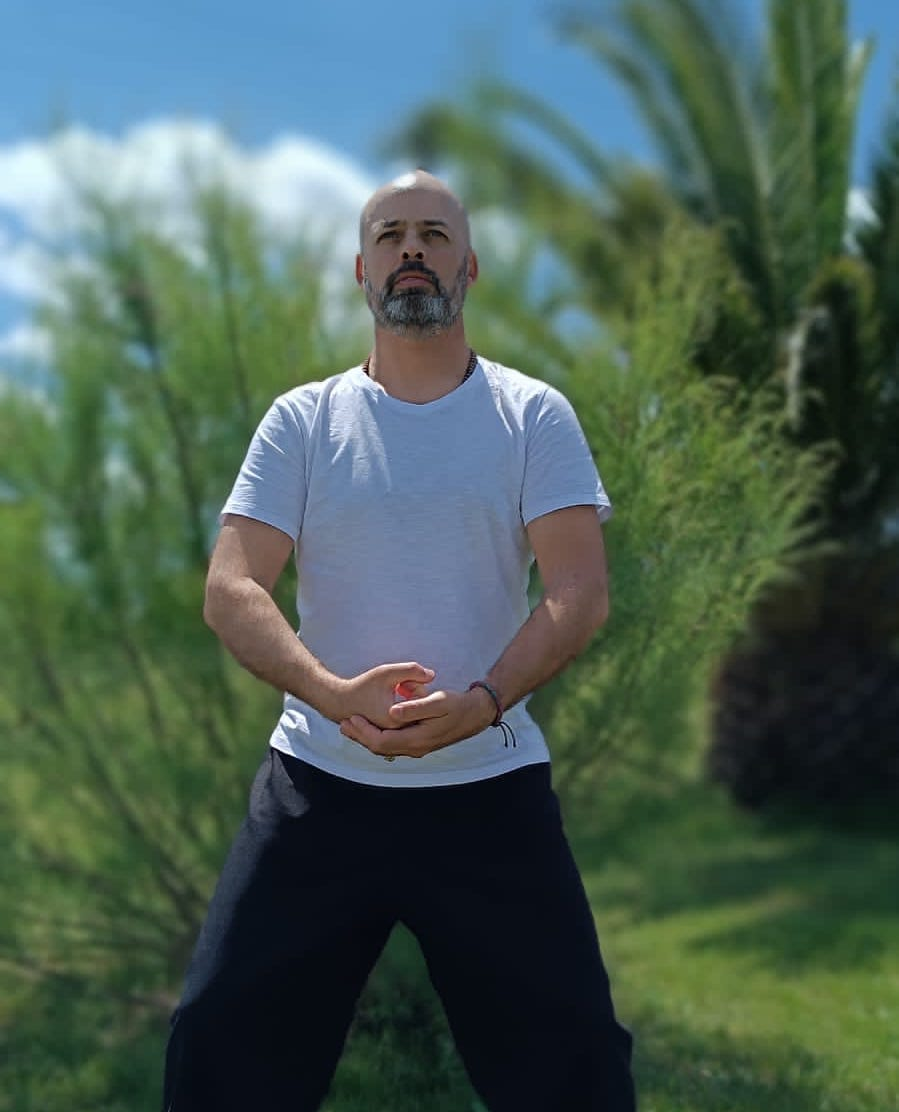
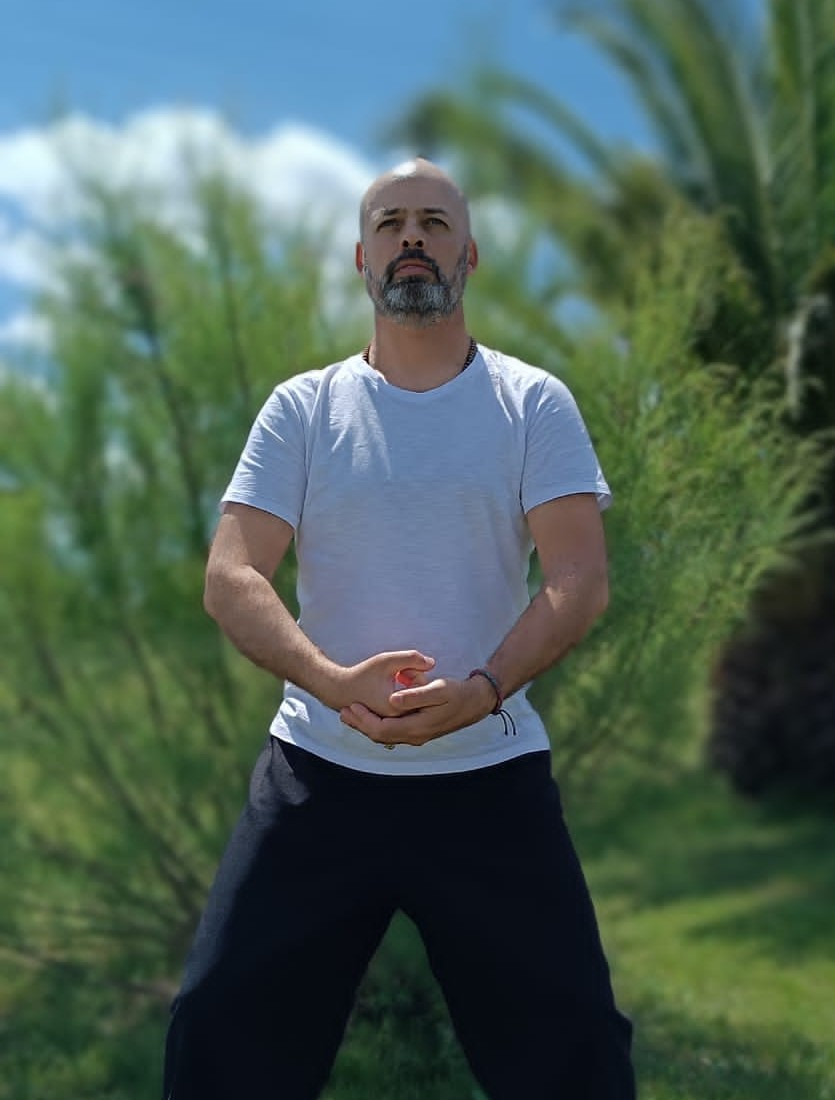
home mobile page

diff --git a/src/components/Home.js b/src/components/Home.js
@@ -2,15 +2,17 @@ import Carousel from 'react-bootstrap/Carousel';
 import Hero from '../images/richard1.png';
 import Hero2 from '../images/richard2.png';
 import Hero2mobile from '../images/richard1mobile.png';
-import Heromobile from '../images/richard2mobile.png';
+import Heromobile from '../images/richardmobile.png';
 import styles from '../styles/CarouselComponent.module.css';
+import app from '../App.module.css';
+import { NavLink } from 'react-router-dom'
+
 
 var heroData = [
     {
         id: 1,
         image: Hero
-    },
-    {
+    }, {
         id: 2,
         image: Hero2
     }
@@ -18,47 +20,96 @@ var heroData = [
 
 function CarouselComponent() {
     return (
-        <>
-            {/* DESKTOP DISPLAY */}
-            <section
-                id={styles.home}
-                className={`${styles.HeroBlock} ${styles.DesktopDisplay}`}
-            >
-                <div className={styles.carouselContainer}>
+        <> {/* DESKTOP DISPLAY */}
+            <section id={
+                    styles.home
+                }
+                className={
+                    `${
+                        styles.HeroBlock
+                    } ${
+                        styles.DesktopDisplay
+                    }`
+            }>
+                <div className={
+                    styles.carouselContainer
+                }>
                     <Carousel>
                         <Carousel.Item interval={3000}>
                             {/* Overlay on each item */}
-                            <div className={styles.overlay}></div>
-                            <img className="d-block w-100" src={Hero} alt="First slide" loading="eager" />
+                            <div className={
+                                styles.overlay
+                            }></div>
+                            <img className="d-block w-100"
+                                src={Hero}
+                                alt="First slide"
+                                loading="eager"/>
                         </Carousel.Item>
                         <Carousel.Item interval={3000}>
                             {/* Overlay on each item */}
-                            <div className={styles.overlay}></div>
-                            <img className="d-block w-100" src={Hero2} alt="Second slide" loading="eager" />
+                            <div className={
+                                styles.overlay
+                            }></div>
+                            <img className="d-block w-100"
+                                src={Hero2}
+                                alt="Second slide"
+                                loading="eager"/>
                         </Carousel.Item>
                     </Carousel>
                 </div>
             </section>
 
             {/* MOBILE DISPLAY */}
-            <section
-                id={styles.home}
-                className={`${styles.HeroBlock} ${styles.MobileDisplay}`}
-            >
-                <div className={styles.carouselContainer}>
-                    <Carousel>
-                        <Carousel.Item interval={3000}>
-                            {/* Overlay on each item */}
-                            <div className={styles.overlay}></div>
-                            <img className="d-block w-100" src={Heromobile} alt="First slide" loading="eager" />
-                        </Carousel.Item>
-                        <Carousel.Item interval={3000}>
-                            {/* Overlay on each item */}
-                            <div className={styles.overlay}></div>
-                            <img className="d-block w-100" src={Hero2mobile} alt="Second slide" loading="eager" />
-                        </Carousel.Item>
-                    </Carousel>
+            <section id={
+                    styles.home
+                }
+                className={
+                    `${
+                        styles.HeroBlock
+                    } ${
+                        styles.MobileDisplay
+                    } ${
+                        styles.MobileCarousel
+                    }`
+            }>
+                <div class={
+                    styles.HomeMobileText
+                }>
+                    <p>Espacio de Artes Internas</p>
+                    <h2>Anahata</h2>
                 </div>
+                <div className={
+                    styles.home
+                }>
+
+                <Carousel>
+                        <Carousel.Item interval={3000}>
+                            {/* Overlay on each item */}
+                            <div className={styles.overlay}></div>
+                            <img className="d-block w-100" src={Hero2mobile} alt="First slide" loading="eager" />
+                        </Carousel.Item>
+                        <Carousel.Item interval={3000}>
+                            {/* Overlay on each item */}
+                            <div className={styles.overlay}></div>
+                            <img className="d-block w-100" src={Heromobile} alt="Second slide" loading="eager" />
+                        </Carousel.Item>
+                    </Carousel> 
+
+
+
+                    
+                </div>
+                <div className={styles.HomeDescription}>
+                    <p>
+                        Descubre el equilibrio físico, mental y emocional.
+                    </p>
+
+                    <NavLink to="/servicios">
+                    <button className={styles.Button}>Servicios</button>
+                    </NavLink>
+                </div>
+
+
             </section>
         </>
     );

diff --git a/src/styles/CarouselComponent.module.css b/src/styles/CarouselComponent.module.css
@@ -13,6 +13,50 @@
     background: linear-gradient(to right, rgb(250, 250, 250) 50%, transparent 90%);
   
   }
+
+  .home img{
+      width:75%!important;
+      margin: 0 auto;
+      height: auto!important;
+      border-radius: 10px;
+      }
+
+
+  .HomeMobileText{
+    margin-top: 90px!important;
+    color: #778566!important;
+    letter-spacing: 2px;
+    margin-bottom: 15px;
+  }
+  .HomeMobileText p {
+    letter-spacing:3px;
+
+  }
+
+  .HomeDescription{
+    margin-top:15px!important;
+    width: 70%;
+    margin: 0 auto;
+    color: #778566!important;
+    font-style: italic;
+  }
+  .HomeDescription p {
+    font-size: 12px!important;
+  }
+  
+  .Button {
+
+      padding: 10px 10px;
+      background-color: #788666;
+      text-transform: uppercase;
+      letter-spacing: 2px;
+      color:white;
+      border-color: white;
+      border-radius: 10px;
+      font-size: 12px;
+      box-shadow:none;
+  }
+  
   
   /* Mobile display */
   .MobileDisplay {

diff --git a/src/components/Landing.js b/src/components/Landing.js
@@ -1,7 +1,6 @@
 import {React} from 'react';
 import styles from '../styles/Landing.module.css'
 import image from '../images/starimage.png'
-import Button from 'react-bootstrap/Button';
 import { NavLink } from 'react-router-dom'
 import Video from './Video';
 
@@ -18,7 +17,7 @@ function Landing() {
                     <h1 className={styles.LandingSubtitle}>Anahata</h1>
                 </div>
                 <NavLink to="/richardmorales">
-                    <Button variant="dark" className={styles.Button}>Bienvenidos</Button>
+                    <button className={styles.Button}>Bienvenidos</button>
                 </NavLink>
         </>
     );
